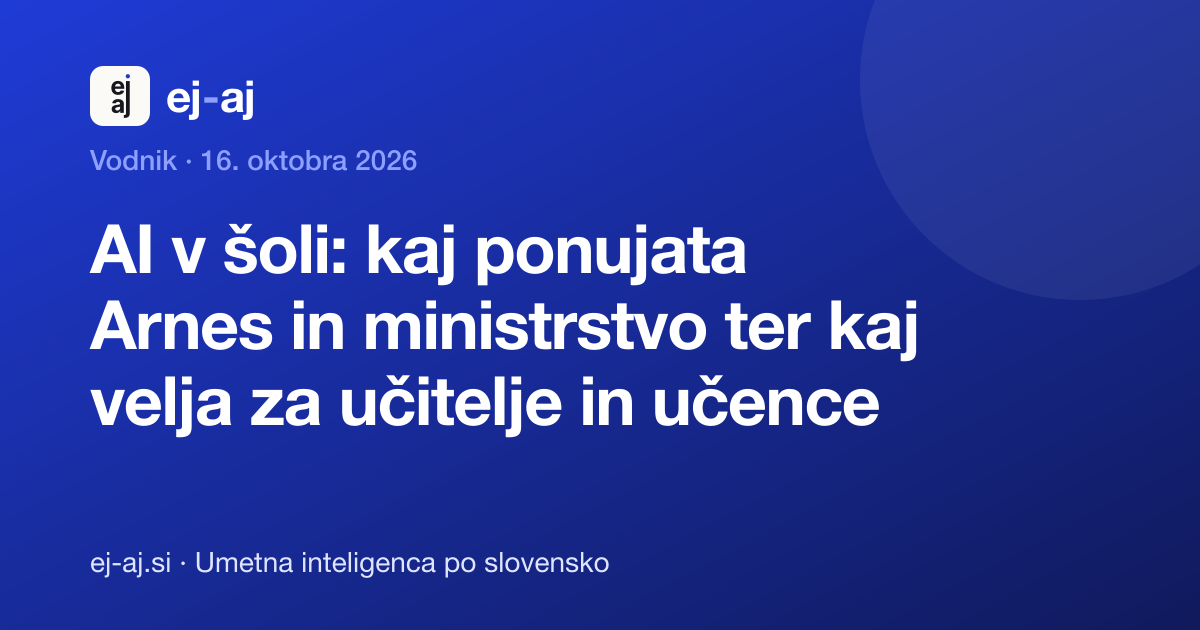
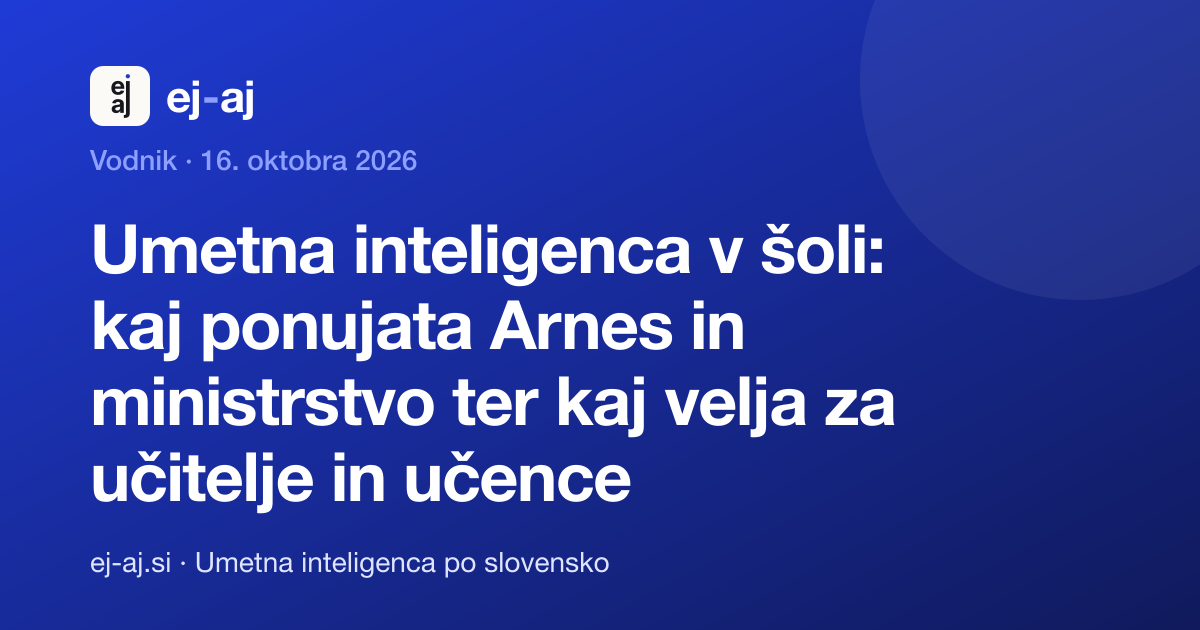
Vary article titles: 12 titles no longer start with "AI"; title rule in slog.md
Slugs and URLs are unchanged; share images regenerated.

Changed region(s): [[0.0617, 0.3317, 0.7708, 0.8143]]

diff --git a/docs/slog.md b/docs/slog.md
@@ -42,6 +42,12 @@ Slovenian equivalents of typical LLM vocabulary. One in a long text is fine, clu
   Never click bait: no teasers, no hidden subject, no promotional adjectives ("hitrejši in
   cenejši", "vse, kar morate vedeti"). Good: "Anthropic izdal Claude Sonnet 5.5: kaj je novega
   in kdaj ga izbrati namesto Opus 5.5".
+- Vary how titles start (Anže, 17. 10. 2026). Do not open with "AI" by default: lead with the
+  reader's subject (profession, task, tool or law), for example "Kadrovska služba in umetna
+  inteligenca: ..." or "Ustvarjanje slik z AI: ...". Keep the search phrase somewhere in the
+  title, mix "AI" and "umetna inteligenca", and before choosing a title look at the ten newest
+  titles on the front page so the new one does not repeat their opening. Changing a title never
+  changes the URL (slug), so older titles can be improved safely.
 - Write for a business reader who is not technical: short sentences, one thought per sentence,
   everyday words. If a simpler word works, use it.
 - Every technical term (token, API, agent, kontekstno okno, predogled, tenant ...) gets a short
@@ -65,3 +71,4 @@ Slovenian equivalents of typical LLM vocabulary. One in a long text is fine, clu
 5. Would a sceptical reader roll their eyes at any sentence? Rewrite it.
 6. Does the title say exactly what the article is about? Is every technical term explained at
    first use?
+7. Does the title start differently from the ten newest titles on the front page?

diff --git a/src/content/novice/2026-10-14-ai-prevajalniki-za-slovenscino.md b/src/content/novice/2026-10-14-ai-prevajalniki-za-slovenscino.md
@@ -1,5 +1,5 @@
 ---
-title: 'AI prevajalniki za slovenščino: DeepL, Google Translate, ChatGPT, Claude in slovenski prevajalnik'
+title: 'Prevajalniki z AI za slovenščino: DeepL, Google Translate, ChatGPT, Claude in slovenski prevajalnik'
 description: 'Kaj ponujajo DeepL, Google Translate, Microsoft, ChatGPT, Claude in Gemini pri prevajanju v slovenščino, katera javna orodja so na voljo in kako varno prevedete zaupen dokument.'
 date: 2026-10-14
 type: vodnik

diff --git a/src/content/novice/2026-10-16-ai-tecaji-in-usposabljanja.md b/src/content/novice/2026-10-16-ai-tecaji-in-usposabljanja.md
@@ -1,5 +1,5 @@
 ---
-title: 'AI tečaji in usposabljanja v Sloveniji: brezplačni spletni tečaji, delavnice in sofinanciranje'
+title: 'Tečaji in usposabljanja za AI v Sloveniji: brezplačni spletni tečaji, delavnice in sofinanciranje'
 description: 'Kje se zaposleni v Sloveniji naučijo osnov AI: brezplačni Elements of AI v slovenščini, tečaji ponudnikov AI orodij, delavnice KCUI in javni programi za odrasle in podjetja.'
 date: 2026-10-16
 type: vodnik

diff --git a/src/content/novice/2026-10-16-ai-v-javni-upravi.md b/src/content/novice/2026-10-16-ai-v-javni-upravi.md
@@ -1,5 +1,5 @@
 ---
-title: 'AI v javni upravi: kaj smejo javni uslužbenci, smernice države in obveznosti po AI Act'
+title: 'Javni uslužbenci in AI: kaj dovoljujejo smernice države, Informacijski pooblaščenec in AI Act'
 description: 'Kaj državne smernice in Informacijski pooblaščenec dovoljujejo pri rabi ChatGPT in Copilota v javni upravi, kako organ uvede AI sistem in kaj od decembra 2027 zahteva AI Act.'
 date: 2026-10-16
 type: vodnik

diff --git a/src/content/novice/2026-10-16-ai-v-soli.md b/src/content/novice/2026-10-16-ai-v-soli.md
@@ -1,5 +1,5 @@
 ---
-title: 'AI v šoli: kaj ponujata Arnes in ministrstvo ter kaj velja za učitelje in učence'
+title: 'Umetna inteligenca v šoli: kaj ponujata Arnes in ministrstvo ter kaj velja za učitelje in učence'
 description: 'Ali imajo šole prek Arnesa Copilot, kaj o AI pravijo ministrstvo in predlog smernic za šole, od katere starosti smejo učenci uporabljati klepetalnike in kaj prepoveduje AI Act.'
 date: 2026-10-16
 type: vodnik

diff --git a/src/content/novice/2026-09-27-ai-za-pravnike-in-odvetnike.md b/src/content/novice/2026-09-27-ai-za-pravnike-in-odvetnike.md
@@ -1,5 +1,5 @@
 ---
-title: 'AI za pravnike in odvetnike: kaj dovoljuje odvetniška tajnost in kako začeti'
+title: 'Umetna inteligenca za pravnike in odvetnike: kaj dovoljuje odvetniška tajnost in kako začeti'
 description: 'Za odvetniške pisarne in pravne službe: kje AI pri delu pomaga, kaj o tem pravita Zakon o odvetništvu in CCBE, zakaj je izmišljena sodna praksa resno tveganje in kako začeti.'
 date: 2026-09-27
 type: vodnik

diff --git a/src/content/novice/2026-09-27-ai-pismenost-zaposlenih.md b/src/content/novice/2026-09-27-ai-pismenost-zaposlenih.md
@@ -1,5 +1,5 @@
 ---
-title: 'AI pismenost zaposlenih: kaj zahteva AI Act in kako pripraviti usposabljanje'
+title: 'Usposabljanje zaposlenih za AI pismenost: kaj zahteva AI Act in kako ga pripraviti'
 description: 'Kaj po julijski spremembi zahteva člen 4 AI Act, kaj Evropska komisija šteje za zadostne ukrepe, kako usposabljanje prilagoditi vlogam, kako ga zapisati in kje so brezplačna gradiva.'
 date: 2026-09-27
 type: vodnik

diff --git a/src/content/novice/2026-10-16-ai-v-kadrovski-sluzbi.md b/src/content/novice/2026-10-16-ai-v-kadrovski-sluzbi.md
@@ -1,5 +1,5 @@
 ---
-title: 'AI v kadrovski službi: za kaj ga lahko uporabite in kje veljajo omejitve zakona'
+title: 'Kadrovska služba in umetna inteligenca: kje prihrani čas in kje zakon postavlja meje'
 description: 'Kje AI kadrovikom prihrani čas, kateri podatki o kandidatih in zaposlenih ne sodijo v klepetalnik in kaj AI Act, GDPR in ZDR-1 pravijo o izbiri kandidatov z AI.'
 date: 2026-10-16
 type: vodnik

diff --git a/src/content/novice/2026-09-27-ai-v-excelu-wordu-outlooku.md b/src/content/novice/2026-09-27-ai-v-excelu-wordu-outlooku.md
@@ -1,5 +1,5 @@
 ---
-title: 'AI v Excelu, Wordu in Outlooku: Copilot, Claude, ChatGPT in Gemini'
+title: 'Excel, Word in Outlook z umetno inteligenco: Copilot, Claude, ChatGPT in Gemini'
 description: 'Kaj zna AI v Excelu, Wordu in Outlooku: Microsoft Copilot, Claude za Microsoft 365, ChatGPT za Excel in Gemini v Google Workspace. Cene za Slovenijo, slovenščina in omejitve.'
 date: 2026-09-27
 type: vodnik

diff --git a/src/content/novice/2026-10-03-ai-za-video-glasbo-in-glas.md b/src/content/novice/2026-10-03-ai-za-video-glasbo-in-glas.md
@@ -1,5 +1,5 @@
 ---
-title: 'AI za video, glasbo in glas: orodja, cene in katera podpirajo slovenščino'
+title: 'Video, glasba in glas z AI: orodja, cene in katera podpirajo slovenščino'
 description: 'Pregled AI orodij za ustvarjanje videov, glasbe, govora in prepisov: Gemini, Runway, Kling, Synthesia, HeyGen, Suno, ElevenLabs, Truebar. Cene, pravice in slovenščina.'
 date: 2026-10-03
 type: vodnik

diff --git a/src/content/novice/2026-09-27-ai-v-racunovodstvu.md b/src/content/novice/2026-09-27-ai-v-racunovodstvu.md
@@ -1,5 +1,5 @@
 ---
-title: 'AI v računovodstvu: kaj zna, česa ne sme in kako začeti'
+title: 'Računovodstvo z umetno inteligenco: kaj zna, česa ne sme in kako začeti'
 description: 'Za računovodske servise in finančne službe: kje AI pri delu pomaga, zakaj zaupnost in e-računi od leta 2028 spreminjajo sliko, kaj svetujejo stroka in ponudniki ter kako začeti.'
 date: 2026-09-27
 type: vodnik

diff --git a/src/content/novice/2026-10-03-ai-za-ustvarjanje-slik.md b/src/content/novice/2026-10-03-ai-za-ustvarjanje-slik.md
@@ -1,5 +1,5 @@
 ---
-title: 'AI za ustvarjanje slik: orodja, cene, avtorske pravice in označevanje'
+title: 'Ustvarjanje slik z AI: orodja, cene, avtorske pravice in označevanje'
 description: 'Pregled AI orodij za slike: ChatGPT, Gemini, Midjourney, Adobe Firefly, Canva, Ideogram in druga. Cene, brezplačni paketi, komercialna raba, avtorske pravice in vodni žigi.'
 date: 2026-10-03
 type: vodnik
